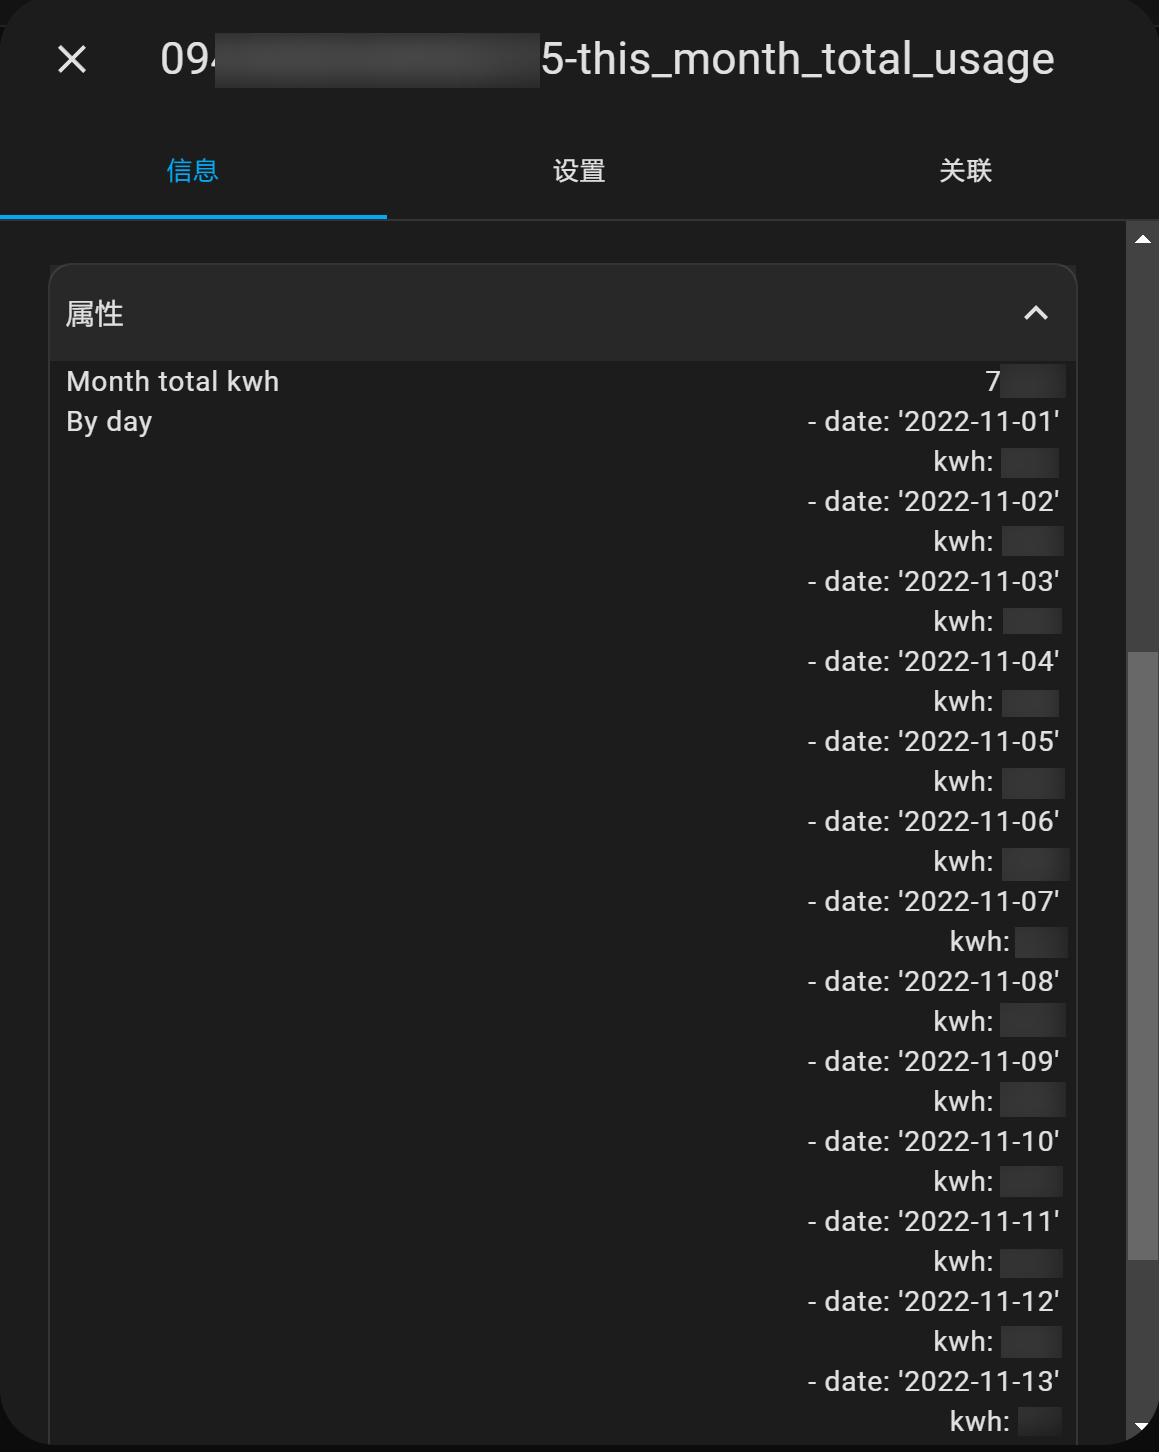
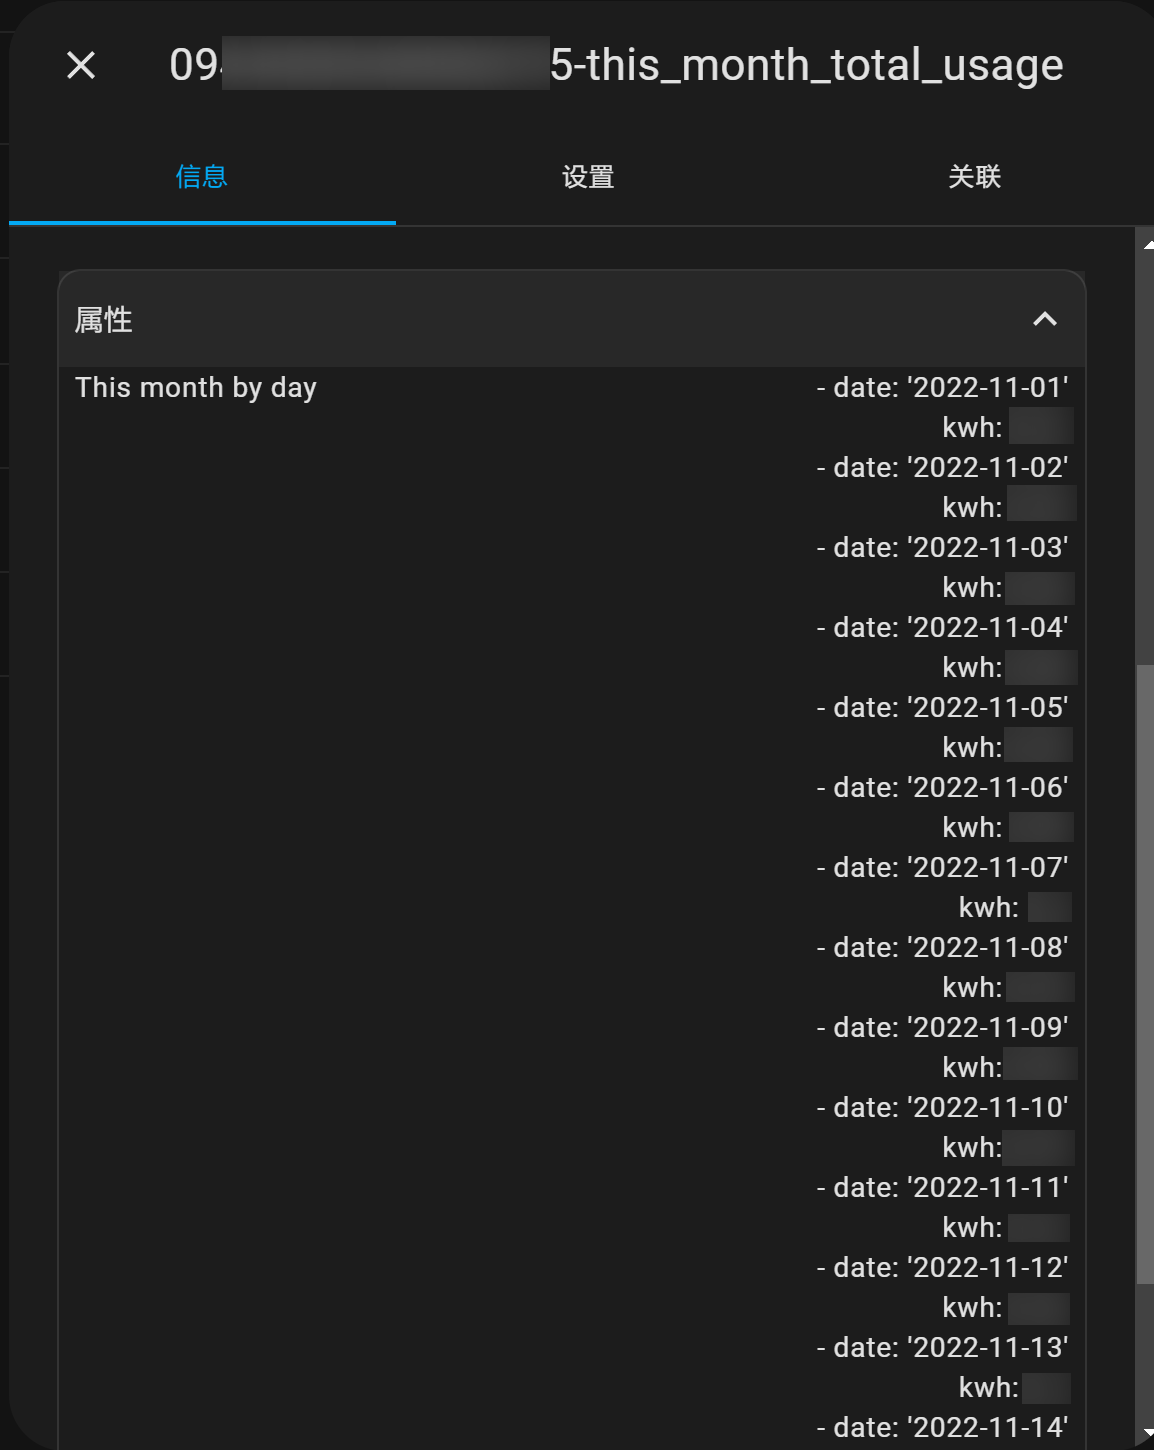
constants for csg_client, change function return format

diff --git a/custom_components/china_southern_power_grid_stat/csg_client/__init__.py b/custom_components/china_southern_power_grid_stat/csg_client/__init__.py
@@ -13,7 +13,6 @@ import random
 import time
 from base64 import b64decode, b64encode
 from copy import copy
-from enum import Enum
 from hashlib import md5
 from typing import Any
 
@@ -21,68 +20,9 @@ import requests
 from Crypto.Cipher import AES, PKCS1_v1_5
 from Crypto.PublicKey import RSA
 
+from .const import *
+
 _LOGGER = logging.getLogger(__name__)
-
-# BASE_PATH_WEB = "https://95598.csg.cn/ucs/ma/wt/"
-BASE_PATH_APP = "https://95598.csg.cn/ucs/ma/zt/"
-
-# https://95598.csg.cn/js/app.1.6.177.1667607288138.js
-PARAM_KEY = "cOdHFNHUNkZrjNaN".encode("utf8")
-PARAM_IV = "oMChoRLZnTivcQyR".encode("utf8")
-LOGON_CHANNEL_ONLINE_HALL = "3"  # web
-LOGON_CHANNEL_HANDHELD_HALL = "4"  # app
-RESP_STA_SUCCESS = "00"
-RESP_STA_EMPTY_PARAMETER = "01"
-RESP_STA_SYSTEM_ERROR = "02"
-RESP_STA_NO_LOGIN = "04"
-SESSION_KEY_LOGIN_TYPE = "10"
-
-
-class LoginType(Enum):
-    """Login type from JS"""
-
-    LOGIN_TYPE_SMS = "11"
-    LOGIN_TYPE_PWD = "10"
-    LOGIN_TYPE_WX_QR = "20"
-    LOGIN_TYPE_ALI_QR = "21"
-    LOGIN_TYPE_CSG_QR = "30"
-
-
-class AreaCode(Enum):
-    """Area codes"""
-
-    GUANGZHOU = "080000"
-    SHENZHEN = "090000"
-    GUANGDONG = "030000"  # Rest of Guangdong
-    GUANGXI = "040000"
-    YUNNAN = "050000"
-    GUIZHOU = "060000"
-    HAINAN = "070000"
-
-
-AREACODE_FALLBACK = AreaCode.GUANGDONG.value
-
-# https://95598.csg.cn/js/chunk-31aec193.1.6.177.1667607288138.js
-CREDENTIAL_PUBKEY = (
-    "MIGfMA0GCSqGSIb3DQEBAQUAA4GNADCBiQKBgQD1RJE6GBKJlFQvTU6g0ws9R"
[2 lines of base64/hex data omitted]
-)
-rsa_key = RSA.import_key(b64decode(CREDENTIAL_PUBKEY))
-
-# the value of these login types are the same as the enum above
-# however they're not programmatically linked in the source code
-# use them as seperated parameters for now
-LOGIN_TYPE_PHONE_CODE = "11"
-LOGIN_TYPE_PHONE_PWD = "10"
-SEND_MSG_TYPE_VERIFICATION_CODE = "1"
-VERIFICATION_CODE_TYPE_LOGIN = "1"
-
-# https://95598.csg.cn/js/chunk-49c87982.1.6.177.1667607288138.js
-RESP_STA_QR_TIMEOUT = "00010001"
-
-# from packet capture
-RESP_STA_LOGIN_WRONG_CREDENTIAL = "00010002"
 
 
 class CSGAPIError(Exception):
@@ -109,12 +49,18 @@ class CSGHTTPError(Exception):
         return f"<CSGHTTPError code={self.status_code}>"
 
 
-class InvalidCredentials(Exception):
+class InvalidCredentials(CSGAPIError):
     """Wrong username+password combination (RESP_STA_LOGIN_WRONG_CREDENTIAL)"""
 
+    def __str__(self):
+        return f"<CSGInvalidCredentials sta={self.sta} message={self.msg}>"
 
-class NotLoggedIn(Exception):
+
+class NotLoggedIn(CSGAPIError):
     """Not logged in or login expired (RESP_STA_NO_LOGIN)"""
+
+    def __str__(self):
+        return f"<CSGNotLoggedIn sta={self.sta} message={self.msg}>"
 
 
 class QrCodeExpired(Exception):
@@ -132,6 +78,7 @@ def generate_qr_login_id():
 
 def encrypt_credential(password: str) -> str:
     """Use RSA+pubkey to encrypt password"""
+    rsa_key = RSA.import_key(b64decode(CREDENTIAL_PUBKEY))
     credential_cipher = PKCS1_v1_5.new(rsa_key)
     encrypted_pwd = credential_cipher.encrypt(password.encode("utf8"))
     return b64encode(encrypted_pwd).decode()
@@ -190,34 +137,34 @@ class CSGElectricityAccount:
     def dump(self) -> dict[str, str]:
         """serialize this object"""
         return {
-            "account_number": self.account_number,
-            "area_code": self.area_code,
-            "ele_customer_id": self.ele_customer_id,
-            "metering_point_id": self.metering_point_id,
-            "address": self.address,
-            "user_name": self.user_name,
+            ATTR_ACCOUNT_NUMBER: self.account_number,
+            ATTR_AREA_CODE: self.area_code,
+            ATTR_ELE_CUSTOMER_ID: self.ele_customer_id,
+            ATTR_METERING_POINT_ID: self.metering_point_id,
+            ATTR_ADDRESS: self.address,
+            ATTR_USER_NAME: self.user_name,
         }
 
     @staticmethod
     def load(data: dict) -> CSGElectricityAccount:
         """deserialize this object"""
         for k in (
-            "account_number",
-            "area_code",
-            "ele_customer_id",
-            "metering_point_id",
-            "address",
-            "user_name",
+            ATTR_ACCOUNT_NUMBER,
+            ATTR_AREA_CODE,
+            ATTR_ELE_CUSTOMER_ID,
+            ATTR_METERING_POINT_ID,
+            ATTR_ADDRESS,
+            ATTR_USER_NAME,
         ):
             if k not in data:
                 raise ValueError(f"Missing key {k}")
         account = CSGElectricityAccount(
-            account_number=data["account_number"],
-            area_code=AreaCode(data["area_code"]),
-            ele_customer_id=data["ele_customer_id"],
-            metering_point_id=data["metering_point_id"],
-            address=data["address"],
-            user_name=data["user_name"],
+            account_number=data[ATTR_ACCOUNT_NUMBER],
+            area_code=AreaCode(data[ATTR_AREA_CODE]),
+            ele_customer_id=data[ATTR_ELE_CUSTOMER_ID],
+            metering_point_id=data[ATTR_METERING_POINT_ID],
+            address=data[ATTR_ADDRESS],
+            user_name=data[ATTR_USER_NAME],
         )
         return account
 
@@ -287,8 +234,8 @@ class CSGClient:
             for _k, _v in custom_headers.items():
                 headers[_k] = _v
         if with_auth:
-            headers["x-auth-token"] = self.auth_token
-            headers["custNumber"] = self.customer_number
+            headers[HEADER_X_AUTH_TOKEN] = self.auth_token
+            headers[HEADER_CUST_NUMBER] = self.customer_number
         if method == "POST":
             response = self._session.post(url, json=payload, headers=headers)
             if response.status_code != 200:
@@ -312,7 +259,7 @@ class CSGClient:
             response_data,
         )
         if response_data["sta"] == RESP_STA_NO_LOGIN:
-            raise NotLoggedIn()
+            raise NotLoggedIn(response_data["sta"], response_data["message"])
         raise CSGAPIError(response_data["sta"], response_data["message"])
 
     # end internal utility functions
@@ -366,10 +313,10 @@ class CSGClient:
         if resp_data["sta"] == RESP_STA_SUCCESS:
             return resp_header["x-auth-token"]
         if resp_data["sta"] == RESP_STA_LOGIN_WRONG_CREDENTIAL:
-            raise InvalidCredentials
+            raise InvalidCredentials(resp_data["sta"], resp_data["message"])
         self._handle_unsuccessful_response(resp_data)
 
-    def api_query_authentication_result(self) -> dict:
+    def api_query_authentication_result(self) -> dict[str, Any]:
         """Contains custNumber, used to verify login"""
         path = "user/queryAuthenticationResult"
         payload = None
@@ -378,7 +325,7 @@ class CSGClient:
             return resp_data["data"]
         self._handle_unsuccessful_response(resp_data)
 
-    def api_get_user_info(self) -> dict:
+    def api_get_user_info(self) -> dict[str, Any]:
         """Get account info"""
         path = "user/getUserInfo"
         payload = None
@@ -387,7 +334,7 @@ class CSGClient:
             return resp_data["data"]
         self._handle_unsuccessful_response(resp_data)
 
-    def api_get_all_linked_electricity_accounts(self) -> list:
+    def api_get_all_linked_electricity_accounts(self) -> list[dict[str, Any]]:
         """List all linked electricity accounts under this account"""
         path = "eleCustNumber/queryBindEleUsers"
         _, resp_data = self._make_request(path, {})
@@ -503,25 +450,26 @@ class CSGClient:
 
     # begin utility functions
     @staticmethod
-    def load(data: dict[str:str]) -> CSGClient:
+    def load(data: dict[str, str]) -> CSGClient:
         """
         Restore the session info to client object
         The validity of the session won't be checked
         `initialize()` needs to be called for the client to be usable
         """
-        for k in ("auth_token", "login_type"):
+        for k in (ATTR_AUTH_TOKEN, ATTR_LOGIN_TYPE):
             if not data.get(k):
                 raise ValueError(f"missing parameter: {k}")
         client = CSGClient(
-            auth_token=data["auth_token"], login_type=LoginType(data["login_type"])
+            auth_token=data[ATTR_AUTH_TOKEN],
+            login_type=LoginType(data[ATTR_LOGIN_TYPE]),
         )
         return client
 
     def dump(self) -> dict[str, Any]:
         """Dump the session to dict"""
         return {
-            "auth_token": self.auth_token,
-            "login_type": self.login_type.value,
+            ATTR_AUTH_TOKEN: self.auth_token,
+            ATTR_LOGIN_TYPE: self.login_type.value,
         }
 
     def set_authentication_params(self, auth_token: str, login_type: LoginType):
@@ -582,7 +530,9 @@ class CSGClient:
             result.append(account)
         return result
 
-    def get_month_daily_usage_detail(self, account: CSGElectricityAccount) -> dict:
+    def get_month_daily_usage_detail(
+        self, account: CSGElectricityAccount
+    ) -> tuple[float, list[dict[str, str | float]]]:
         """Get daily usage of current month"""
         dt_now = datetime.datetime.now()
         year, month = dt_now.year, dt_now.month
@@ -598,7 +548,7 @@ class CSGClient:
         by_day = []
         for d_data in resp_data["result"]:
             by_day.append({"date": d_data["date"], "kwh": float(d_data["power"])})
-        return {"month_total_kwh": month_total_kwh, "by_day": by_day}
+        return month_total_kwh, by_day
 
     def get_balance_and_arrears(
         self, account: CSGElectricityAccount
@@ -612,7 +562,9 @@ class CSGClient:
         arrears = resp_data[0]["arrears"]
         return float(balance), float(arrears)
 
-    def get_year_month_stats(self, account: CSGElectricityAccount) -> dict:
+    def get_year_month_stats(
+        self, account: CSGElectricityAccount
+    ) -> tuple[float, float, list[dict[str, str | float]]]:
         """Get year total kWh, year total charge, kWh/charge by month in current year"""
         year = datetime.datetime.now().year
         resp_data = self.api_get_fee_analyze_details(
@@ -630,11 +582,7 @@ class CSGClient:
                     "kwh": float(m_data["billingElectricity"]),
                 }
             )
-        return {
-            "year_total_charge": float(total_year_charge),
-            "year_total_kwh": float(total_year_kwh),
-            "by_month": by_month,
-        }
+        return float(total_year_charge), float(total_year_kwh), by_month
 
     def get_yesterday_kwh(self, account: CSGElectricityAccount) -> float:
         """Get power consumption(kwh) of yesterday"""

diff --git a/custom_components/china_southern_power_grid_stat/csg_client/const.py b/custom_components/china_southern_power_grid_stat/csg_client/const.py
@@ -1,0 +1,75 @@
+"""Constants for csg_client"""
+from enum import Enum
+
+# BASE_PATH_WEB = "https://95598.csg.cn/ucs/ma/wt/"
+BASE_PATH_APP = "https://95598.csg.cn/ucs/ma/zt/"
+
+# https://95598.csg.cn/js/app.1.6.177.1667607288138.js
+PARAM_KEY = "cOdHFNHUNkZrjNaN".encode("utf8")
+PARAM_IV = "oMChoRLZnTivcQyR".encode("utf8")
+LOGON_CHANNEL_ONLINE_HALL = "3"  # web
+LOGON_CHANNEL_HANDHELD_HALL = "4"  # app
+RESP_STA_SUCCESS = "00"
+RESP_STA_EMPTY_PARAMETER = "01"
+RESP_STA_SYSTEM_ERROR = "02"
+RESP_STA_NO_LOGIN = "04"
+SESSION_KEY_LOGIN_TYPE = "10"
+
+
+class LoginType(Enum):
+    """Login type from JS"""
+
+    LOGIN_TYPE_SMS = "11"
+    LOGIN_TYPE_PWD = "10"
+    LOGIN_TYPE_WX_QR = "20"
+    LOGIN_TYPE_ALI_QR = "21"
+    LOGIN_TYPE_CSG_QR = "30"
+
+
+class AreaCode(Enum):
+    """Area codes"""
+
+    GUANGZHOU = "080000"
+    SHENZHEN = "090000"
+    GUANGDONG = "030000"  # Rest of Guangdong
+    GUANGXI = "040000"
+    YUNNAN = "050000"
+    GUIZHOU = "060000"
+    HAINAN = "070000"
+
+
+AREACODE_FALLBACK = AreaCode.GUANGDONG.value
+
+# https://95598.csg.cn/js/chunk-31aec193.1.6.177.1667607288138.js
+CREDENTIAL_PUBKEY = (
+    "MIGfMA0GCSqGSIb3DQEBAQUAA4GNADCBiQKBgQD1RJE6GBKJlFQvTU6g0ws9R"
[2 lines of base64/hex data omitted]
+)
+
+# the value of these login types are the same as the enum above
+# however they're not programmatically linked in the source code
+# use them as seperated parameters for now
+LOGIN_TYPE_PHONE_CODE = "11"
+LOGIN_TYPE_PHONE_PWD = "10"
+SEND_MSG_TYPE_VERIFICATION_CODE = "1"
+VERIFICATION_CODE_TYPE_LOGIN = "1"
+
+# https://95598.csg.cn/js/chunk-49c87982.1.6.177.1667607288138.js
+RESP_STA_QR_TIMEOUT = "00010001"
+
+# from packet capture
+RESP_STA_LOGIN_WRONG_CREDENTIAL = "00010002"
+
+ATTR_ACCOUNT_NUMBER = "account_number"
+ATTR_AREA_CODE = "area_code"
+ATTR_ELE_CUSTOMER_ID = "ele_customer_id"
+ATTR_METERING_POINT_ID = "metering_point_id"
+ATTR_ADDRESS = "address"
+ATTR_USER_NAME = "user_name"
+
+HEADER_X_AUTH_TOKEN = "x-auth-token"
+HEADER_CUST_NUMBER = "custNumber"
+
+ATTR_AUTH_TOKEN = "auth_token"
+ATTR_LOGIN_TYPE = "login_type"

diff --git a/custom_components/china_southern_power_grid_stat/sensor.py b/custom_components/china_southern_power_grid_stat/sensor.py
@@ -62,7 +62,7 @@ async def async_setup_entry(
 ):
     """Setup sensors from a config entry created in the integrations UI."""
     if not config_entry.data[CONF_ACCOUNTS]:
-        _LOGGER.info("No accounts in config, exit entry setup")
+        _LOGGER.info("No ele accounts in config, exit entry setup")
         return
 
     coordinator = CSGCoordinator(hass, config_entry.entry_id)
@@ -268,16 +268,18 @@ class CSGCoordinator(DataUpdateCoordinator):
             for account_number, account_data in config[CONF_ACCOUNTS].items():
                 account = CSGElectricityAccount.load(account_data)
                 bal, arr = client.get_balance_and_arrears(account)
-                year_month_stats = client.get_year_month_stats(account)
-                month_daily_usage = client.get_month_daily_usage_detail(account)
+                year_charge, year_kwh, year_by_month = client.get_year_month_stats(
+                    account
+                )
+                month_kwh, month_by_day = client.get_month_daily_usage_detail(account)
                 data_ret[account_number] = {
                     SUFFIX_BAL: bal,
                     SUFFIX_ARR: arr,
-                    SUFFIX_YEAR_KWH: year_month_stats["year_total_kwh"],
-                    SUFFIX_YEAR_COST: year_month_stats["year_total_charge"],
-                    ATTR_KEY_YEAR_BY_MONTH: year_month_stats,
-                    SUFFIX_MONTH_KWH: month_daily_usage["month_total_kwh"],
-                    ATTR_KEY_MONTH_BY_DAY: month_daily_usage,
+                    SUFFIX_YEAR_KWH: year_kwh,
+                    SUFFIX_YEAR_COST: year_charge,
+                    ATTR_KEY_YEAR_BY_MONTH: {ATTR_KEY_YEAR_BY_MONTH: year_by_month},
+                    SUFFIX_MONTH_KWH: month_kwh,
+                    ATTR_KEY_MONTH_BY_DAY: {ATTR_KEY_MONTH_BY_DAY: month_by_day},
                 }
             _LOGGER.info("Coordinator %s update done!", config[CONF_USERNAME])
             return data_ret
